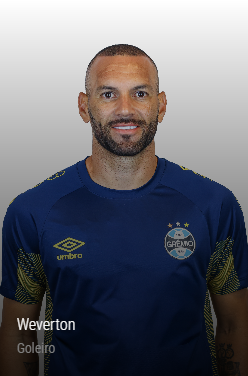
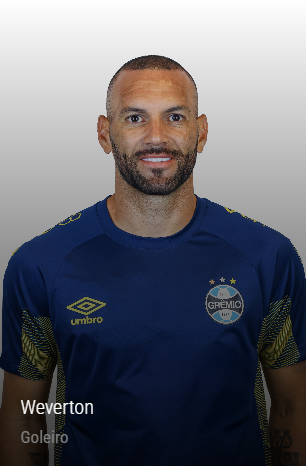
add - arrumei o nome de algumas imagens

diff --git a/index.html b/index.html
@@ -14,7 +14,7 @@
     <header>
         <nav>
             <a href="https://gremio.net/">
-                <img id="icon" src="assets/Gremio_logo.png.png" alt="Escudo do Grêmio">
+                <img id="icon" src="assets/Gremio_logo.png" alt="Escudo do Grêmio">
             </a>
             <h1> Site de Notícias do Grêmio </h1>
             <ul>
@@ -30,25 +30,25 @@
         <section id="noticias">
 
             <div class="noticia">
-                <img class="img_noticia" src="assets/5_geral_g.jpg" alt="">
+                <img class="img_noticia" src="assets/noticia1.jpg" alt="Estadio Torcida do Grêmio">
                 <h2>Torcida do Grêmio se supera <br> mais uma vez</h2>
                 <p>Empolgação a mil!!</p>
             </div>
 
             <div class="noticia">
-                <img class="img_noticia" src="assets/Jogadores-do-Gremio-comemoram-gol-scaled-aspect-ratio-512-320.webp" alt="">
+                <img class="img_noticia" src="assets/noticia2.png" alt="3 Jogadores">
                 <h2>Grêmio faz 6 X 0 no Inter</h2>
                 <p>Grande dia!</p>
             </div>
 
             <div class="noticia">
-                <img class="img_noticia" src="assets/2287460170-briga-entre-jogadores-gremistas-e-colorados-durou-quase-10-minutos.jpg" alt="">
+                <img class="img_noticia" src="assets/noticia3.jpg" alt="Briga do Grêmio X Inter">
                 <h2>Briga entre Grêmio e Inter leva <br> a expulsões</h2>
                 <p>Lamentável!</p>
             </div>
 
             <div class="noticia">
-                <img class="img_noticia" src="assets/gremiol.png" alt="">
+                <img class="img_noticia" src="assets/noticia4.png" alt="Luís Castro">
                 <h2>Luis Castro tem expectativas altas</h2>
                 <p>Confiamos em você!</p>
             </div>
@@ -57,13 +57,72 @@
 
     </main>
 
-        <section id="jogadores">
-            <h2>Escalação</h2>
+        <section class="escalacao"></section>
+            
+        <h2>Escalação</h2>
+        
+        <div id="jogadores">
 
             <div class="jogador">
-                <img class="img_jogador" src="assets/" alt="Weverton">
+                <img class="img_jogador" src="assets/Weverton.png" alt="Weverton">
                 <p></p>
             </div>
+
+            <div class="jogador">
+                <img class="img_jogador" src="assets/João-Pedro.png" alt="João Pedro">
+                <p></p>
+            </div>
+
+            <div class="jogador">
+                <img class="img_jogador" src="assets/Balbuena.png" alt="Balbuena">
+                <p></p>
+            </div>
+
+            <div class="jogador">
+                <img class="img_jogador" src="assets/Willian.png" alt="Wagner Leonardo">
+                <p></p>
+            </div>
+
+            <div class="jogador">
+                <img class="img_jogador" src="assets/Marlon.png" alt="Marlon">
+                <p></p>
+            </div>
+
+            <div class="jogador">
+                <img class="img_jogador" src="assets/Erick-Noriega.png" alt="Erick Noriega">
+                <p></p>
+            </div>
+
+            <div class="jogador">
+                <img class="img_jogador" src="assets/Arthur.png" alt="Arthur Melo">
+                <p></p>
+            </div>
+
+            <div class="jogador">
+                <img class="img_jogador" src="assets/Willian.png" alt="Willian">
+                <p></p>
+            </div>
+
+            <div class="jogador">
+                <img class="img_jogador" src="assets/Tetê.png" alt="Tetê">
+                <p></p>
+            </div>
+
+            <div class="jogador">
+                <img class="img_jogador" src="assets/Pavón.png" alt="Pavón">
+                <p></p>
+            </div>
+
+            <div class="jogador">
+                <img class="img_jogador" src="assets/Carlos-Vinícios.png" alt="Carlos Vinícius">
+                <p></p>
+            </div>
+
+            <div class="jogador">
+                <img class="img_jogador" src="assets/Amazu.png" alt="Amazu">
+                <p></p>
+            </div>
+        </div>
 
         </section>
 

diff --git a/style.css b/style.css
@@ -39,6 +39,35 @@ nav {
     height: 150px;
 }
 
+h2{
+    text-align: center;
+    margin-top: 40px;
+    margin-bottom: 30px;
+}
+
+.escalacao{
+    background-color: rgb(56, 100, 196);
+    padding: 40px;
+    margin: 40px;
+    border-radius: 30px;
+}
+
+#jogadores{
+    display: flex;
+    justify-content: center;
+    flex-wrap: wrap;
+    gap: 40px;
+}
+
+.jogador{
+    padding: 15px;
+    width: 150px;
+}
+
+.img_jogador{
+    width: 100px;
+}
+
 footer{
     background-color: azure;
     padding: 10px;
